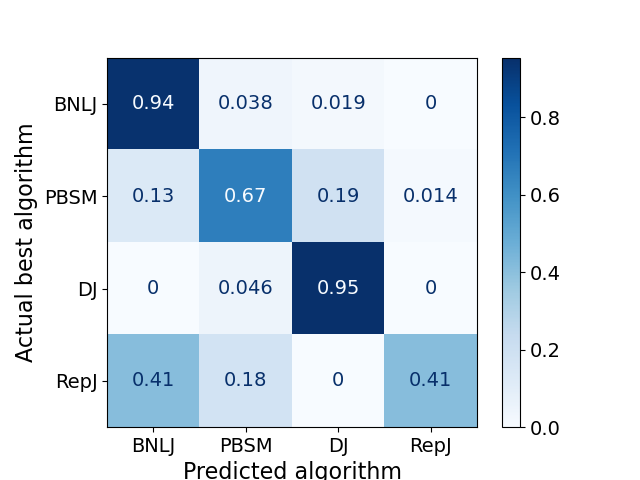
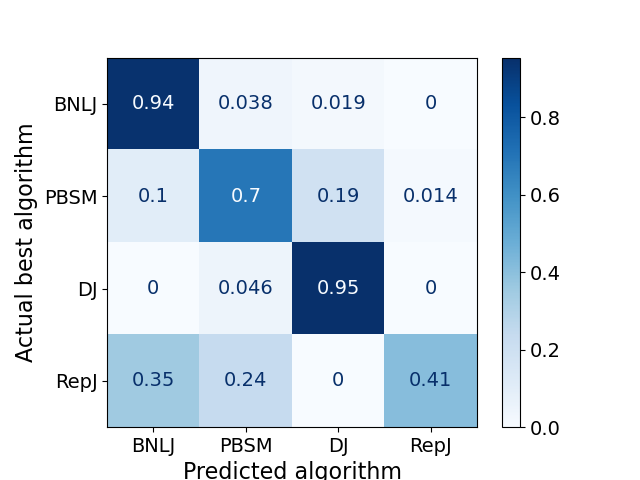
Update data and confusion matrix figure

diff --git a/utils/plot_confusion_matrix.py b/utils/plot_confusion_matrix.py
@@ -20,11 +20,11 @@ def plot_two_matrices(confusion_matrix_values, titles):
                      cbar_pad=0.15,
                      )
 
-    for i, ax in enumerate(grid[:2]):
+    for n, ax in enumerate(grid[:2]):
         # cm = np.random.random((2, 2))
-        cm = confusion_matrix_values[i]
+        cm = confusion_matrix_values[n]
         im = ax.imshow(cm, vmin=0, vmax=1, cmap=plt.cm.Blues)
-        ax.set_title("{}".format(titles[i]))  # ax.___ instead of plt.___
+        ax.set_title("{}".format(titles[n]))  # ax.___ instead of plt.___
         tick_marks = np.arange(4)
         ax.set_xticks(tick_marks)  # Warning: different signature for [x|y]ticks in pyplot and OO interface
         ax.set_xticklabels(classes, rotation=0)
@@ -35,6 +35,10 @@ def plot_two_matrices(confusion_matrix_values, titles):
             ax.text(j, i, format(cm[i, j], '.3f'),
                     horizontalalignment="center",
                     color="black")
+            if confusion_matrix_values[n][i][j] > 0.7:
+                ax.text(j, i, format(cm[i, j], '.3f'),
+                        horizontalalignment="center",
+                        color="white")
 
         ax.set_ylabel('Actual best algorithm')
         ax.set_xlabel('Predicted algorithm')
@@ -97,7 +101,7 @@ def main():
     confusion_matrix_values.append(confusion_matrix(y_test, y_pred, labels=[1, 2, 3, 4], normalize='true'))
 
     SUB = str.maketrans("0123456789", "₀₁₂₃₄₅₆₇₈₉")
-    titles = ['B3{}'.format('1'.translate(SUB)), 'M3']
+    titles = ['B3{}'.format('2'.translate(SUB)), 'M3']
 
     plot_two_matrices(confusion_matrix_values, titles)
 

diff --git a/classification_model.py b/classification_model.py
@@ -56,7 +56,7 @@ class ClassificationModel(ModelInterface):
     feature_set7 = ['join_cardinality', 'mbr_bnlj', 'mbr_pbsm', 'mbr_dj', 'mbr_repj', 'block_size_x', 'block_size_y', 'intersection_area1', 'intersection_area2', 'jaccard_similarity']
 
     DROP_COLUMNS = []
-    SELECTED_COLUMNS = feature_set5
+    SELECTED_COLUMNS = feature_set6
 
     def __init__(self, model_name):
         self.clf_model = DecisionTreeClassifier()
